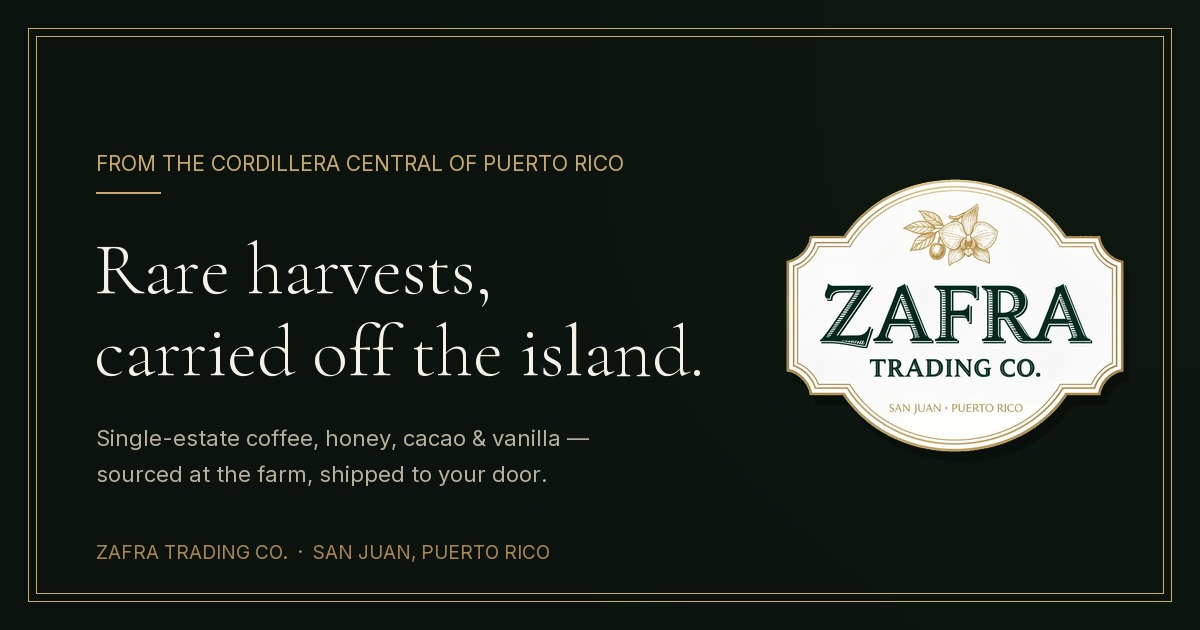
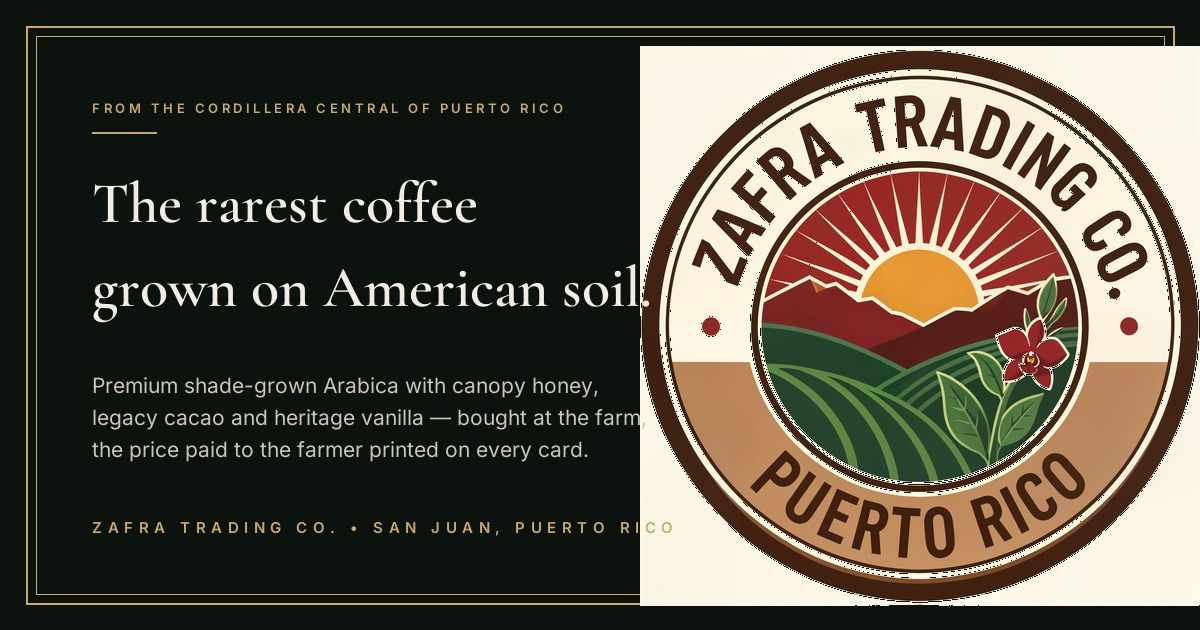
OG: new share card + meta with hero/pillar/printed-price language

diff --git a/index.html b/index.html
@@ -197,16 +197,16 @@ body{background:#0C130E}
 img{opacity:1}
 ::selection{background:#C9A96E;color:#0C130E}
 </style>
-<meta property="og:title" content="Zafra Trading Co. — Rare harvests from Puerto Rico">
-<meta property="og:description" content="Single-estate coffee, honey, cacao & vanilla — sourced at the farm in the Cordillera Central, shipped to your door.">
+<meta property="og:title" content="Zafra Trading Co. — The rarest coffee grown on American soil">
+<meta property="og:description" content="Premium shade-grown Arabica from the mountains of Puerto Rico — with canopy honey, legacy cacao and heritage vanilla — bought at the farm, the price paid to the farmer printed on every card.">
 <meta property="og:type" content="website">
 <meta property="og:url" content="https://zafratrading.com/">
 <meta property="og:image" content="https://zafratrading.com/images/og-image.jpg">
 <meta property="og:image:width" content="1200">
 <meta property="og:image:height" content="630">
 <meta name="twitter:card" content="summary_large_image">
-<meta name="twitter:title" content="Zafra Trading Co. — Rare harvests from Puerto Rico">
-<meta name="twitter:description" content="Single-estate coffee, honey, cacao & vanilla — sourced at the farm, shipped to your door.">
+<meta name="twitter:title" content="Zafra Trading Co. — The rarest coffee grown on American soil">
+<meta name="twitter:description" content="Premium shade-grown Arabica from the mountains of Puerto Rico — with canopy honey, legacy cacao and heritage vanilla — bought at the farm, the price paid to the farmer printed on every card.">
 <meta name="twitter:image" content="https://zafratrading.com/images/og-image.jpg">
 </head>
 <body>
